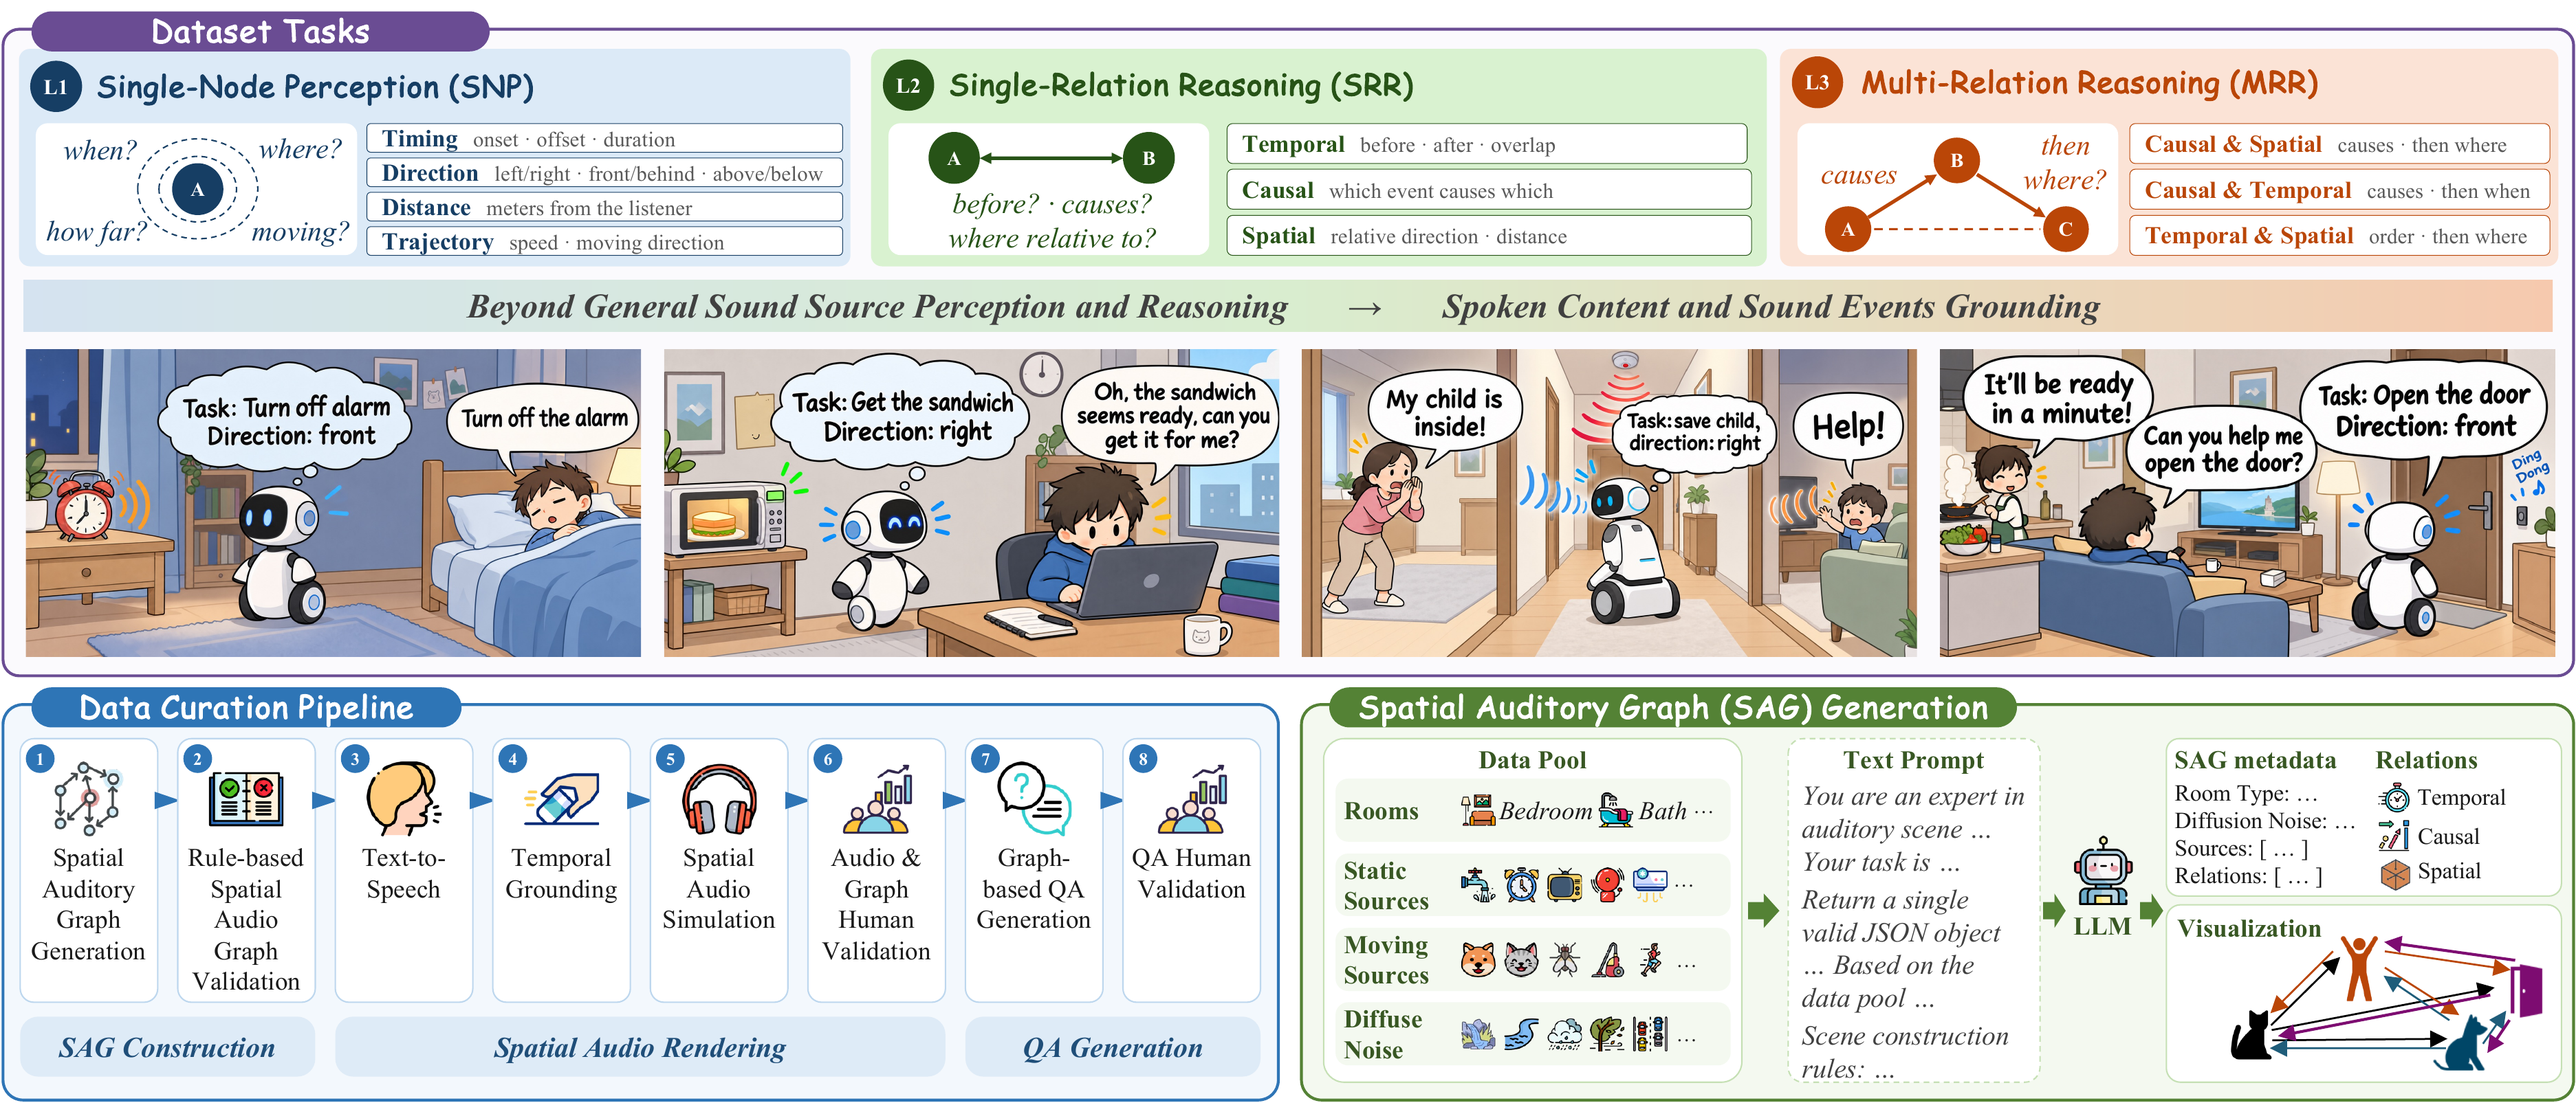
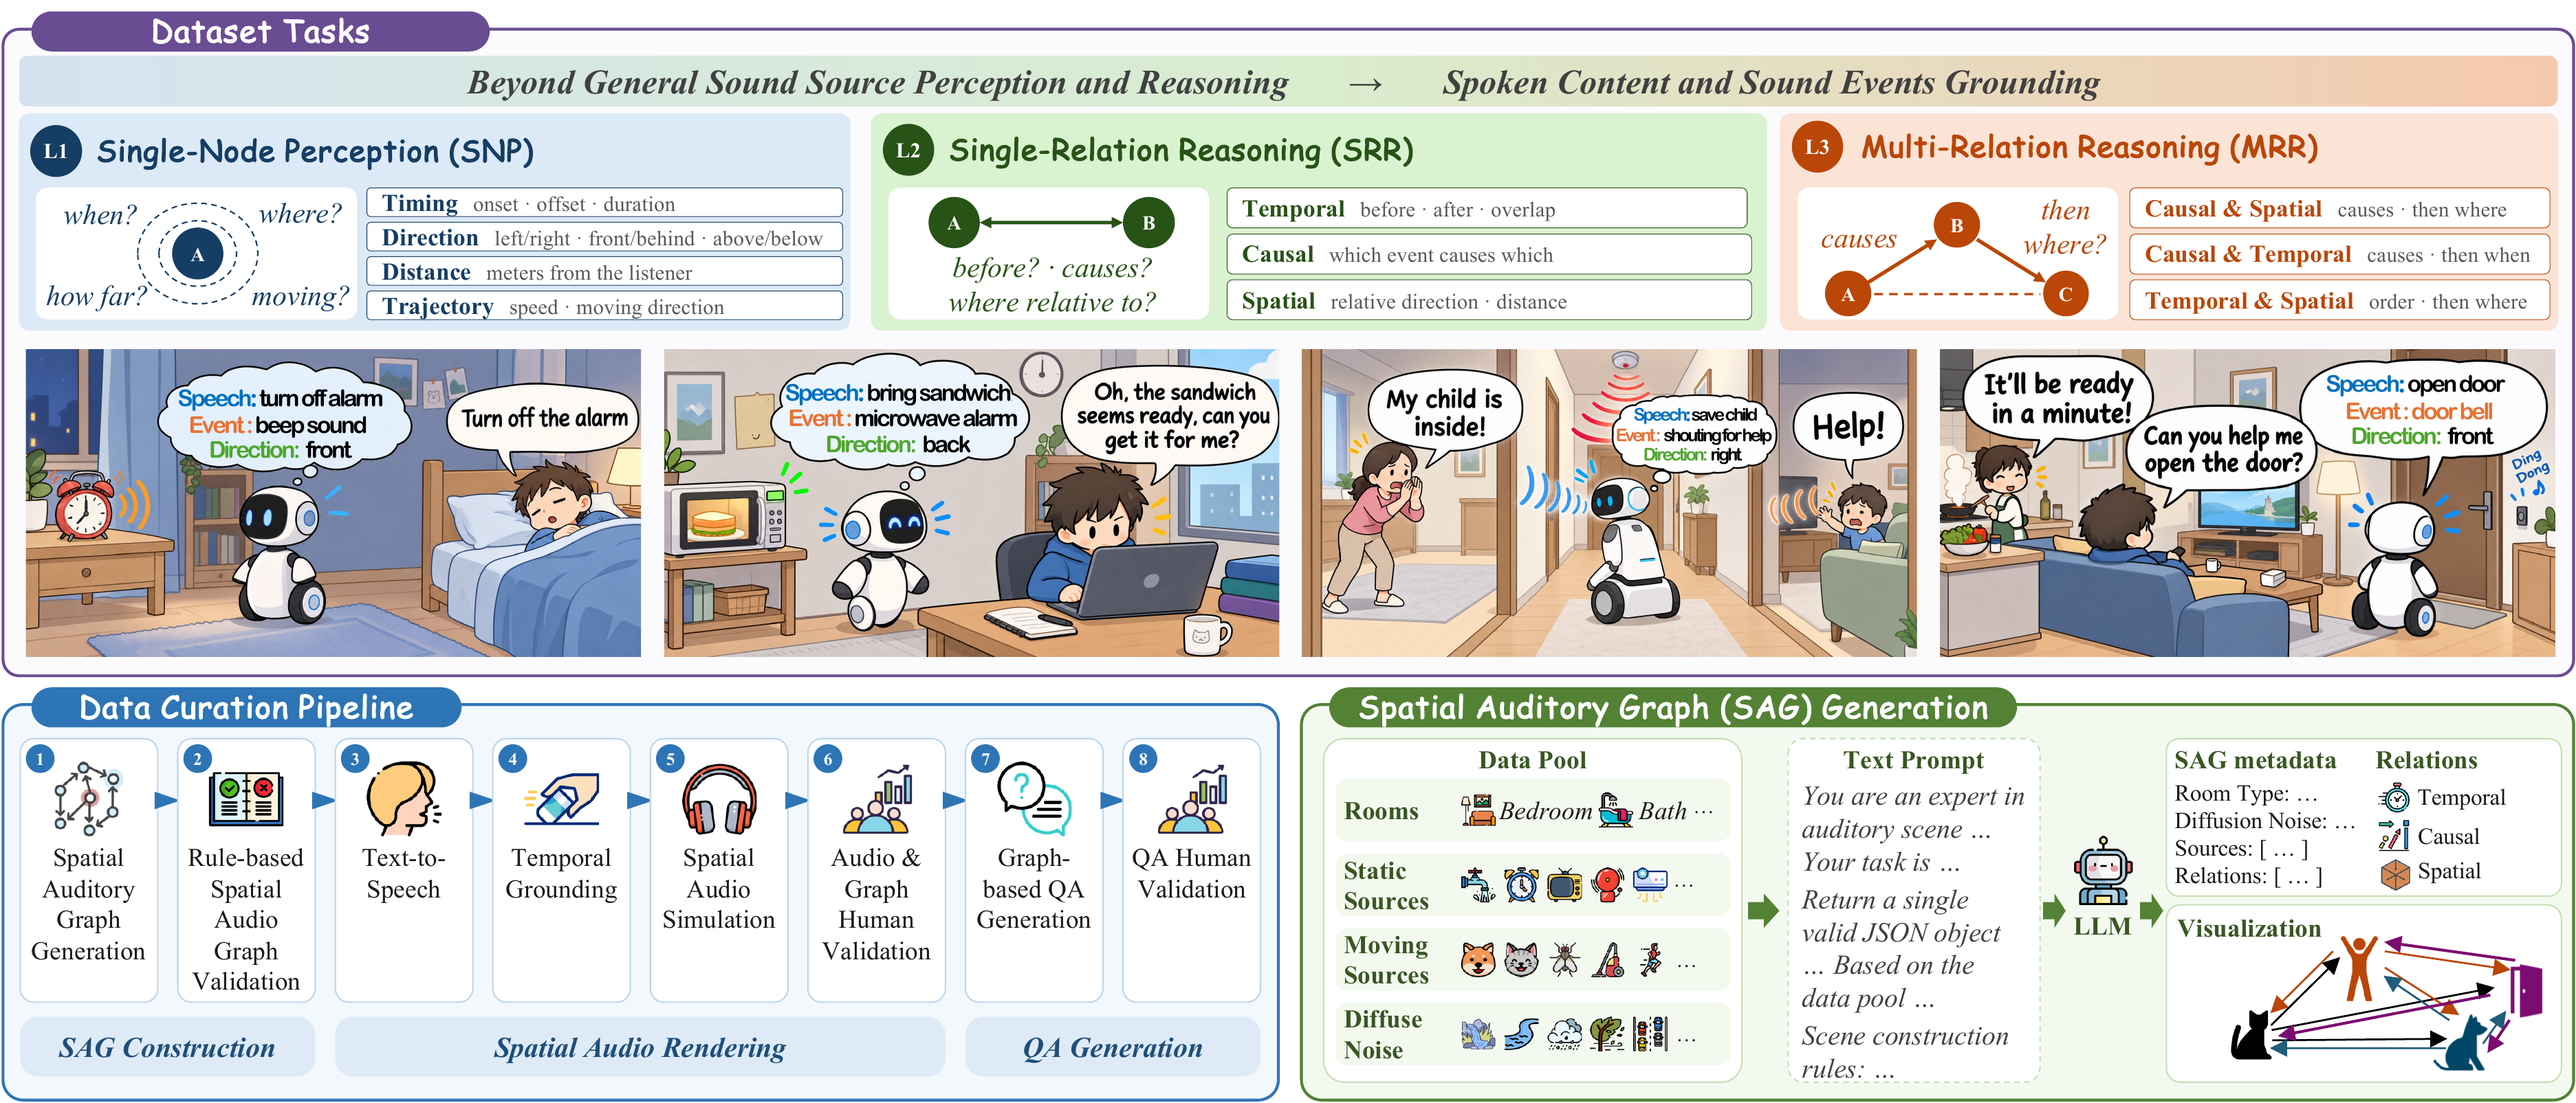
Update public Aural overview figure

diff --git a/index.html b/index.html
@@ -2,7 +2,7 @@
 <body><header><a href="#top">Aural</a><nav><a href="#abstract">Abstract</a><a href="#overview">Overview</a><a href="#performance">Performance</a><div class="demo-menu"><a class="demo-menu-trigger" href="#demos" aria-haspopup="true">Demos</a><div class="demo-menu-popup"><a href="#demos">AuralScene</a><a href="#speech-demos">AuralSpeech</a></div></div></nav></header>
 <main id="top"><section class="hero"><h1><span class="hero-name">Aural</span> <span class="hero-title"><span class="hero-title-line">Towards Spoken-Content-Aware</span> <span class="hero-title-line">Spatial Auditory Scene Understanding</span> <span class="hero-title-line">with Large Audio Language Models</span></span></h1><div class="hero-credit"><p class="hero-authors"><span class="hero-author">Han Yin</span> <span aria-hidden="true">·</span> <span class="hero-author">Hongju Jeong</span> <span aria-hidden="true">·</span> <span class="hero-author">Woojin Hong</span> <span aria-hidden="true">·</span> <span class="hero-author">Jung-Woo Choi</span></p><p class="hero-affiliation">KAIST</p></div></section>
 <section id="abstract" class="prose"><h2>Abstract</h2><p>Large audio language models (LALMs) have advanced from recognizing <em>what is present</em> to understanding <em>where sources are</em>. Existing spatial LALMs can model both spoken content and general sound sources; however, these capabilities are largely treated as separate tasks, without explicitly connecting spoken content to spatially grounded sound events. This task separation limits joint understanding of speech and the surrounding auditory scene, where spoken content can be crucial for interpreting the situation. For example, a crash followed by speech may indicate very different situations depending on whether a speaker calls for help or comments on a dropped plate. To address this gap, we first curate <strong>AuralSpeech</strong>, a corpus for spatially localizing and transcribing speakers. We then introduce <strong>AuralScene</strong>, a multiple-choice question-answering dataset for spoken-content understanding, spatial grounding, and relational reasoning. Unlike existing datasets that primarily study these capabilities in isolation, AuralScene explicitly couples spoken content with spatially grounded sound events to support joint scene-level reasoning. To enable its systematic construction, we propose <strong>Spatial Auditory Graph (SAG)</strong>, a structured representation of spatial auditory scenes that enables the generation of diverse and controllable spatial audio scenes and question-answer pairs. Finally, we develop <strong>AuralListener</strong>, a baseline spatial LALM for the proposed tasks that combines monaural and spatial audio token streams, enabling controlled analysis of their complementary roles in spatial auditory understanding. Through comprehensive evaluations, we analyze how spoken content, monaural, and spatial audio representations contribute to understanding and identify remaining challenges in the proposed tasks, providing a step toward <strong>spoken-content-aware spatial audio understanding</strong>.</p></section>
-<section id="overview"><h2>Overview</h2><figure class="overview"><img src="assets/overview.png" alt="Overview of AuralScene tasks, the data curation pipeline, and Spatial Auditory Graph generation."></figure></section><section id="annotation-demos" class="annotation-demos"><div class="annotation-demos__heading"><div><p class="eyebrow">AuralScene</p><h2>Annotation platform demonstrations</h2></div><p>Short examples of scene-graph and question-answer validation.</p></div><div class="annotation-demo-grid"><figure><video controls preload="metadata" playsinline aria-label="Spatial Auditory Graph Validation platform demonstration"><source src="assets/annotation-sag-demo-v2.mp4" type="video/mp4">Your browser does not support video playback.</video><figcaption>Spatial Auditory Graph Validation</figcaption></figure><figure><video controls preload="metadata" playsinline aria-label="Question-Answer Validation platform demonstration"><source src="assets/annotation-qa-demo-v2.mp4" type="video/mp4">Your browser does not support video playback.</video><figcaption>Question-Answer Validation</figcaption></figure></div></section>
+<section id="overview"><h2>Overview</h2><figure class="overview"><img src="assets/overview.png?v=2" alt="Overview of AuralScene tasks, the data curation pipeline, and Spatial Auditory Graph generation."></figure></section><section id="annotation-demos" class="annotation-demos"><div class="annotation-demos__heading"><div><p class="eyebrow">AuralScene</p><h2>Annotation platform demonstrations</h2></div><p>Short examples of scene-graph and question-answer validation.</p></div><div class="annotation-demo-grid"><figure><video controls preload="metadata" playsinline aria-label="Spatial Auditory Graph Validation platform demonstration"><source src="assets/annotation-sag-demo-v2.mp4" type="video/mp4">Your browser does not support video playback.</video><figcaption>Spatial Auditory Graph Validation</figcaption></figure><figure><video controls preload="metadata" playsinline aria-label="Question-Answer Validation platform demonstration"><source src="assets/annotation-qa-demo-v2.mp4" type="video/mp4">Your browser does not support video playback.</video><figcaption>Question-Answer Validation</figcaption></figure></div></section>
 <section id="performance"><h2>Performance</h2><h3 class="benchmark-heading">AuralScene</h3><div class="charts"><figure class="interactive-chart chart-scene-without-scu"><h3>Without SCU / Accuracy ↑</h3><svg role="group" aria-label="Without SCU / Accuracy ↑. Hover a model line or focus its legend to highlight it." xmlns:xlink="http://www.w3.org/1999/xlink" width="555.83699pt" height="587.492812pt" viewBox="0 0 555.83699 587.492812" xmlns="http://www.w3.org/2000/svg" version="1.1">
  <metadata>
   <rdf:RDF xmlns:dc="http://purl.org/dc/elements/1.1/" xmlns:cc="http://creativecommons.org/ns#" xmlns:rdf="http://www.w3.org/1999/02/22-rdf-syntax-ns#">
